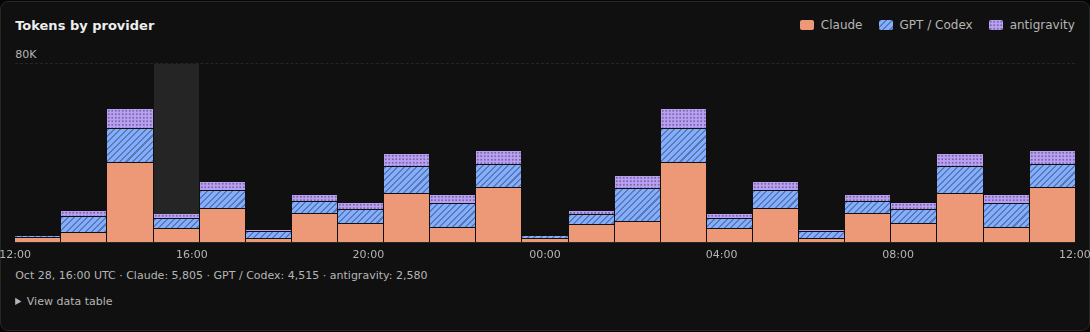
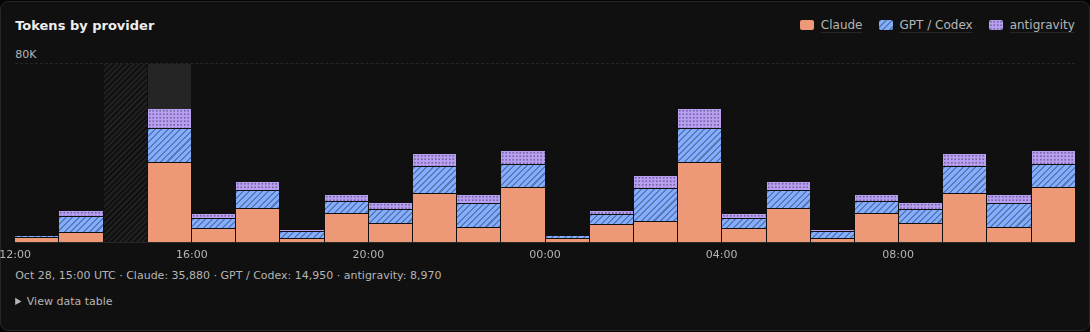
fix(analytics): stacked bars keep unmeasured buckets on the axis, labels follow bars
Day and hour labels sit under the equal-width bars they name. With partial
coverage an absent bucket keeps its slot, hatched and read as not measured.
The UI fixture now starts buckets on whole UTC hours and days, as prox-usage
does.

Changed region(s): [[0.0312, 0.3313, 0.9982, 0.753], [0.156, 0.8133, 0.4055, 0.8434], [0.967, 0.753, 1.0, 0.7831]]

diff --git a/src/features/analytics/ProviderStackChart.tsx b/src/features/analytics/ProviderStackChart.tsx
@@ -3,7 +3,7 @@ import { Link } from 'react-router-dom';
 import { useTranslation } from 'react-i18next';
 import type { AnalyticsProviderBucket } from '@/domain/analytics/types';
 import { providerFill } from '@/features/providers/identity';
-import { niceMaximum, timeTicks } from './chartGeometry';
+import { niceMaximum } from './chartGeometry';
 import { analyticsCompact, analyticsNumber, analyticsShortTime, analyticsTime } from './format';
 import styles from './AnalyticsPage.module.scss';
 
@@ -20,17 +20,13 @@ export function ProviderStackChart({
   title,
   split,
   buckets,
-  from,
-  to,
   interval,
   label,
 }: {
   title: string;
   split: AnalyticsProviderBucket[];
-  /** Every bucket the trend draws, so quiet buckets keep their place on the time axis. */
-  buckets: number[];
-  from: number;
-  to: number;
+  /** Every bucket in the window; an unmeasured one keeps its slot but shows no bar. */
+  buckets: { at: number; measured: boolean }[];
   interval: number;
   /** The provider's display name, as the rest of the page shows it. */
   label: (provider: string) => string;
@@ -55,24 +51,33 @@ export function ProviderStackChart({
     parts.set(groupOf(part.provider), (parts.get(groupOf(part.provider)) ?? 0) + part.total_tokens);
     byBucket.set(part.bucket_ms, parts);
   }
+  const unmeasured = new Set(buckets.filter((b) => !b.measured).map((b) => b.at));
   const sum = (at: number) => [...(byBucket.get(at)?.values() ?? [])].reduce((a, b) => a + b, 0);
-  const maximum = niceMaximum(Math.max(0, ...buckets.map(sum)));
+  const maximum = niceMaximum(Math.max(0, ...buckets.map((b) => sum(b.at))));
   const name = (group: string) =>
     group === OTHER ? t('analytics.provider_split.other') : label(group);
   const fill = (group: string) => providerFill(group) ?? 'var(--text-tertiary)';
   const describe = (at: number) =>
-    `${analyticsTime(at, i18n.language)} UTC · ${
+    `${when(at)} · ${
       groups
         .filter((group) => byBucket.get(at)?.get(group))
         .map(
           (group) =>
             `${name(group)}: ${analyticsNumber(byBucket.get(at)!.get(group)!, i18n.language)}`
         )
-        .join(' · ') || t('analytics.provider_split.none')
+        .join(' · ') || t(`analytics.provider_split.${unmeasured.has(at) ? 'unmeasured' : 'none'}`)
     }`;
   const [inspected, setInspected] = useState<number | null>(null);
-  // Day labels sit under their bar; hour labels mark the boundary they name.
-  const pct = (at: number) => ((at - from) / Math.max(1, to - from)) * 100;
+  const when = (at: number) =>
+    daily
+      ? `${analyticsShortTime(at, i18n.language, true)} UTC`
+      : `${analyticsTime(at, i18n.language)} UTC`;
+  // Bars share the width equally, so labels follow the bars, not the clock: about six of them,
+  // under the day they name or at the hour boundary they name.
+  const every = Math.max(1, Math.ceil(buckets.length / 6));
+  const ticks = buckets
+    .map(({ at }, index) => ({ at, left: ((index + (daily ? 0.5 : 0)) / buckets.length) * 100 }))
+    .filter((_, index) => index % every === 0);
   return (
     <section className={`${styles.panel} ${styles.providerStack}`} aria-labelledby={id}>
       <div className={styles.trendHeader}>
@@ -108,11 +113,12 @@ export function ProviderStackChart({
           aria-hidden="true"
           onMouseLeave={() => setInspected(null)}
         >
-          {buckets.map((at) => (
+          {buckets.map(({ at }) => (
             <span
               key={at}
               className={styles.stackBar}
               data-at={at}
+              data-state={unmeasured.has(at) ? 'gap' : undefined}
               onMouseEnter={() => setInspected(at)}
             >
               {groups.map((group) => {
@@ -128,9 +134,9 @@ export function ProviderStackChart({
           ))}
         </div>
         <div className={styles.stackTicks} aria-hidden="true">
-          {timeTicks(from, to, interval, 6).map((tick) => (
-            <span key={tick} style={{ left: `${pct(daily ? tick + interval / 2 : tick)}%` }}>
-              {analyticsShortTime(tick, i18n.language, daily)}
+          {ticks.map((tick) => (
+            <span key={tick.at} style={{ left: `${tick.left}%` }}>
+              {analyticsShortTime(tick.at, i18n.language, daily)}
             </span>
           ))}
         </div>

diff --git a/src/features/analytics/AnalyticsViews.tsx b/src/features/analytics/AnalyticsViews.tsx
@@ -401,9 +401,16 @@ export function AnalyticsViews({
             <ProviderStackChart
               title={t('analytics.provider_split.title')}
               split={data.provider_timeline}
-              buckets={buckets.map((bucket) => bucket.at)}
-              from={data.from_ms}
-              to={data.to_ms}
+              // Every bucket keeps its slot; with partial coverage an absent one is unmeasured.
+              buckets={bucketTimeline(
+                data.timeline.map((point) => point.bucket_ms),
+                data.from_ms,
+                data.to_ms,
+                interval
+              ).map((bucket) => ({
+                at: bucket.at,
+                measured: bucket.present || data.coverage.raw_complete,
+              }))}
               interval={interval}
               label={(provider) =>
                 data.providers.find((p) => p.key === provider)?.label ?? provider

diff --git a/tests/analyticsProviderSplit.test.ts b/tests/analyticsProviderSplit.test.ts
@@ -33,9 +33,7 @@ describe('tokens by provider', () => {
         createElement(ProviderStackChart, {
           title: 'Tokens by provider',
           split,
-          buckets: [0, 1, 2].map((hour) => from + hour * HOUR),
-          from,
-          to: from + 3 * HOUR,
+          buckets: [0, 1, 2].map((hour) => ({ at: from + hour * HOUR, measured: hour !== 2 })),
           interval: HOUR,
           label: (provider) => provider.toUpperCase(),
         })
@@ -66,5 +64,7 @@ describe('tokens by provider', () => {
     expect(markup.match(/data-at=/g)).toHaveLength(3);
     const plot = markup.slice(markup.indexOf('data-at='), markup.indexOf('<output'));
     expect(plot).not.toContain('<button');
+    // A quiet bucket reads as no tokens; an unmeasured one says so and is hatched, not zero.
+    expect(markup).toContain('data-state="gap"');
   });
 });

diff --git a/tests/fixtures/analyticsUi.ts b/tests/fixtures/analyticsUi.ts
@@ -182,11 +182,13 @@ export function analyticsScenario(
   data.generated_at_ms = query.to_ms;
   data.granularity = query.granularity;
   const step = query.granularity === 'day' ? 86_400_000 : 3_600_000;
+  // Buckets start on whole UTC hours or days, as prox-usage returns them.
+  const first = Math.floor(query.from_ms / step) * step;
   data.timeline = Array.from(
-    { length: Math.ceil((query.to_ms - query.from_ms) / step) },
+    { length: Math.ceil((query.to_ms - first) / step) },
     (_, i) => ({
       ...data.summary,
-      bucket_ms: query.from_ms + i * step,
+      bucket_ms: first + i * step,
       calls: [0, 3, 7, 12, 6, 9][i % 6],
       // Volumes move with traffic so trend lines are distinguishable in screenshots.
       input_tokens: [2_100, 6_400, 9_800, 16_000, 7_300, 11_200][i % 6] * (1 + (i % 4) / 3),

diff --git a/src/features/analytics/AnalyticsPage.module.scss b/src/features/analytics/AnalyticsPage.module.scss
@@ -1411,6 +1411,16 @@ button.heatCell {
 .providerStack {
   margin-top: 14px;
 }
+// Legend entries that open Quota read as links.
+.providerStack .legend a {
+  color: inherit;
+  text-decoration: underline;
+  text-decoration-color: var(--border-color);
+  text-underline-offset: 3px;
+  &:hover {
+    text-decoration-color: currentColor;
+  }
+}
 .stackSwatch {
   width: 14px;
   height: 10px;
@@ -1454,6 +1464,10 @@ button.heatCell {
   }
   &:hover {
     background: var(--bg-hover);
+  }
+  // Unmeasured: hatched, never drawn as zero.
+  &[data-state='gap'] {
+    background: repeating-linear-gradient(135deg, var(--bg-tertiary) 0 2px, transparent 2px 4px);
   }
 }
 .stackTicks {
